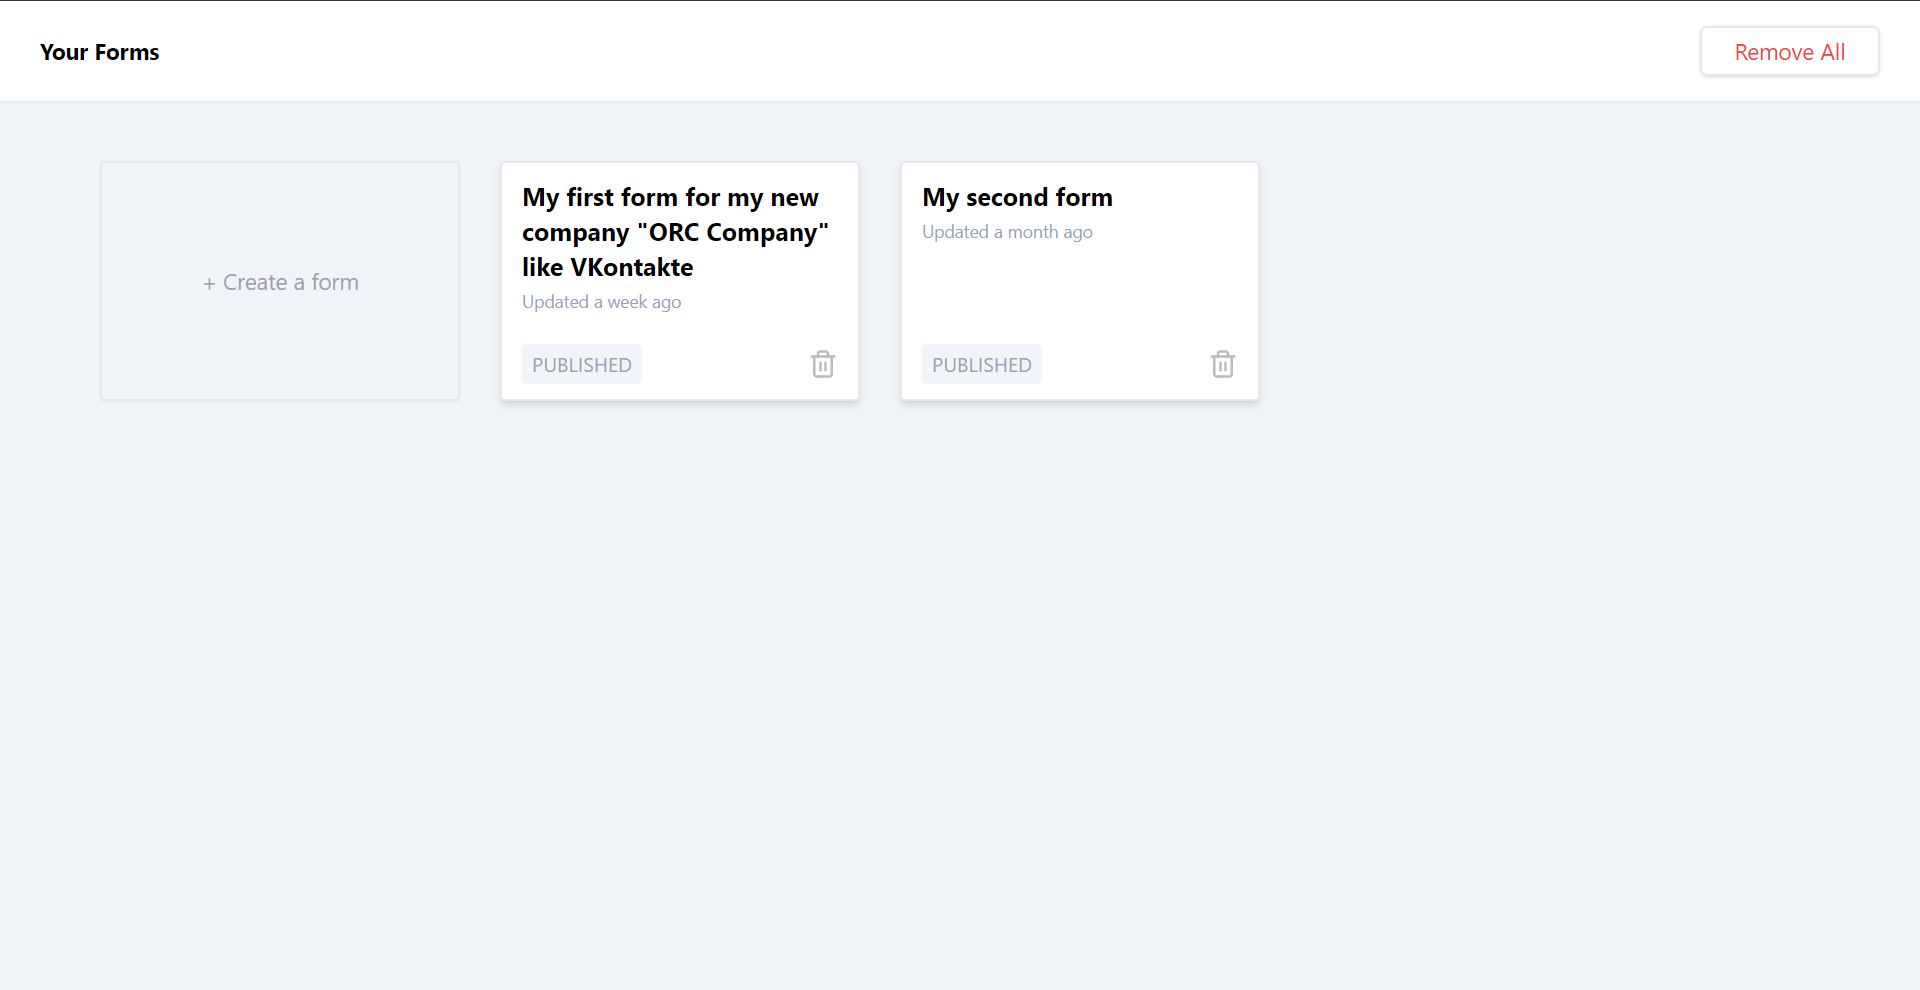
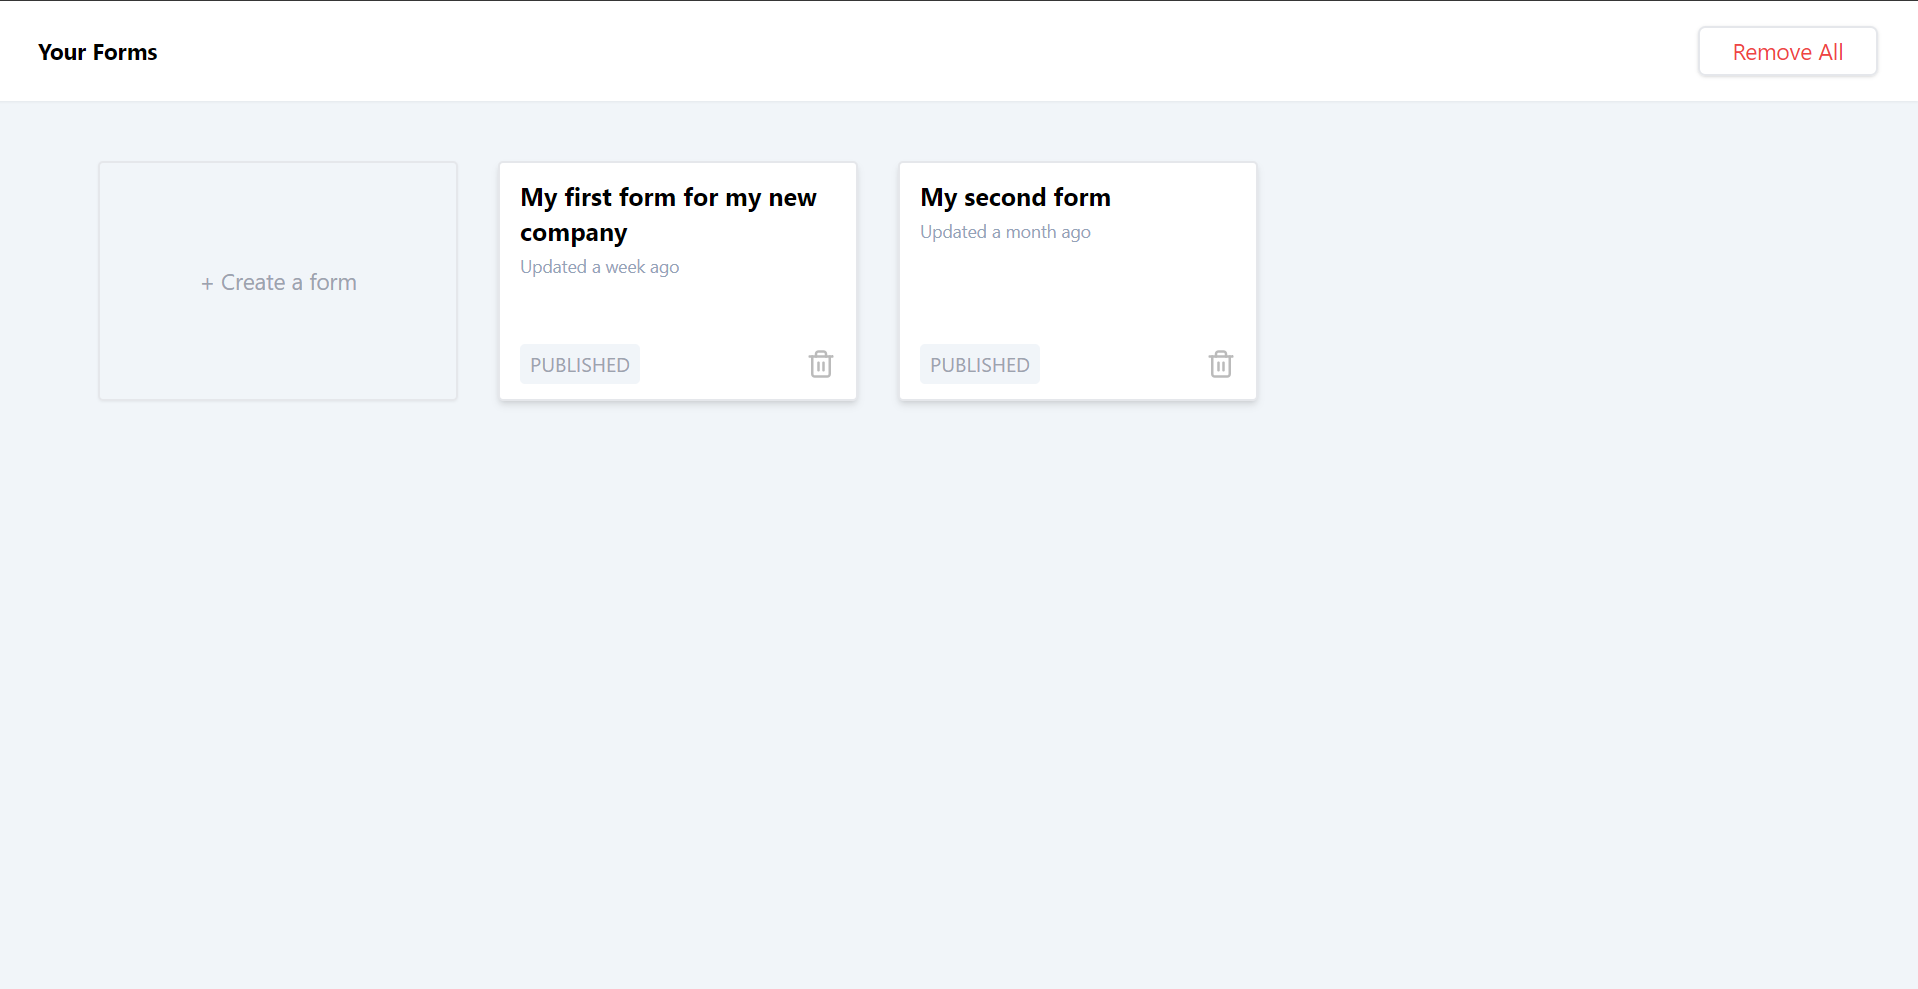
updated readme.md

diff --git a/src/pages/Home.vue b/src/pages/Home.vue
@@ -52,7 +52,7 @@ const deleteAllForms = () => {}
 
       <BaseForm>
         <template v-slot:title>
-          My first form for my new company "ORC Company" like VKontakte
+          My first form for my new company
         </template>
         <template v-slot:date> Updated a week ago </template>
       </BaseForm>

diff --git a/README.md b/README.md
@@ -2,7 +2,7 @@
 
 Tired of complex survey tools like Google Forms? Here's my app for you!
 
-![main page](image.png)
+![alt text](image.png)
 
 ![form constructor](image-1.png)
 
